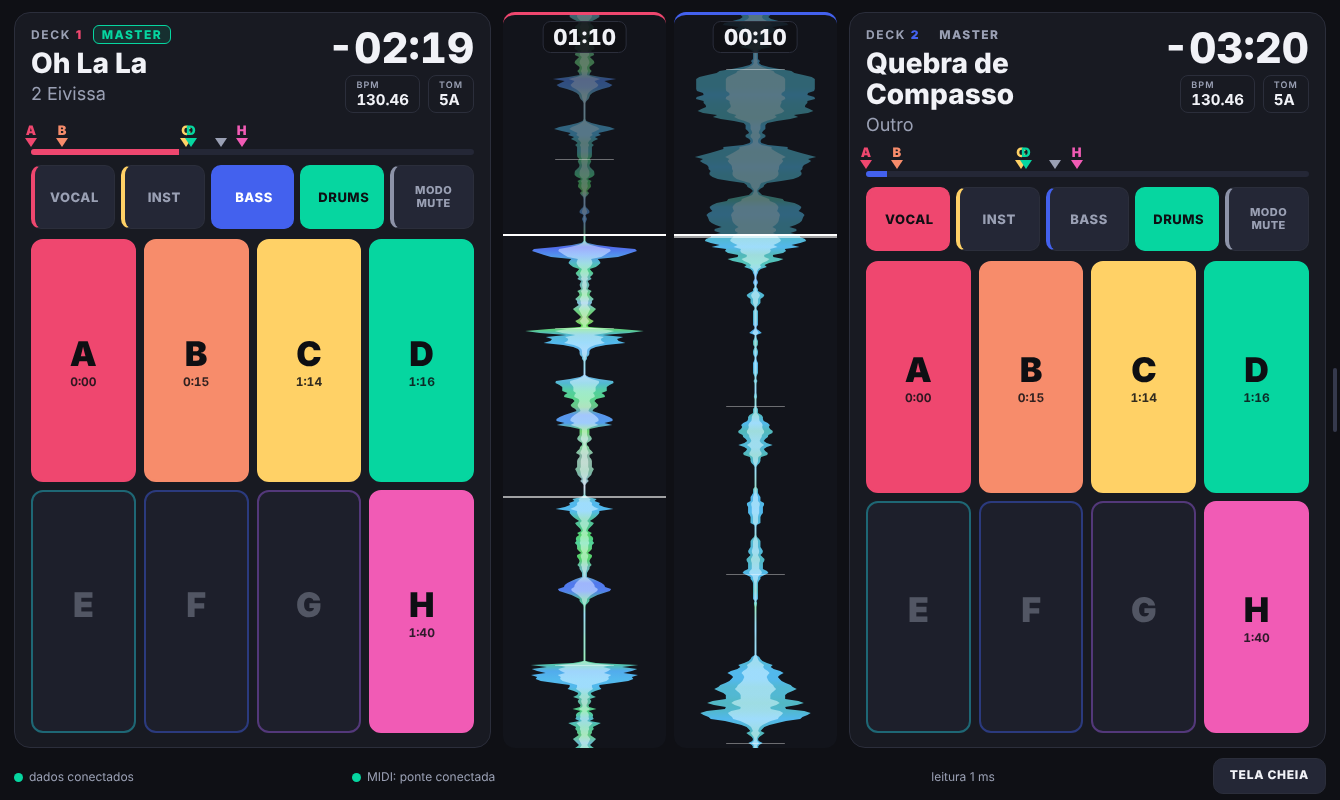
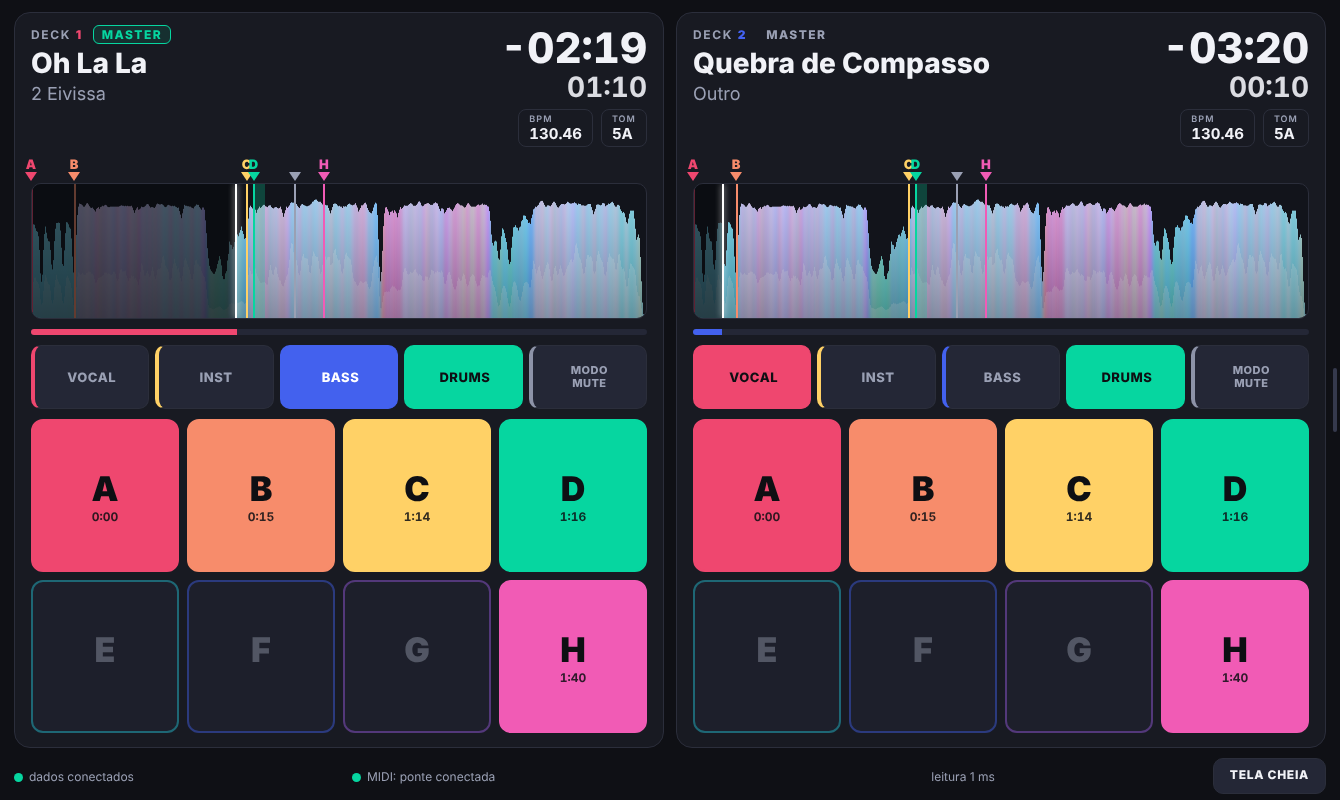
Tela dos decks: waveform da faixa inteira na horizontal
Waveforms verticais com zoom saem; cada deck ganha a waveform inteira (metade de
cima) acima da barra de progresso, com cues acima, agulha branca e veu no que ja
tocou. Tempo atual passa para baixo do tempo restante.

Claude-Session: https://claude.ai/code/session_0189gEqf2iF2GEJehgvVMap2

diff --git a/padbridge2/web/index.html b/padbridge2/web/index.html
@@ -20,7 +20,7 @@ html,body{overflow:hidden}
 .borda.dir{right:0}.borda.esq{left:0}
 .borda::after{content:"";position:absolute;top:50%;width:4px;height:64px;margin-top:-32px;border-radius:3px;background:#3a3e52;opacity:.9}
 .borda.dir::after{right:3px}.borda.esq::after{left:3px}
-.app{height:100%;display:grid;grid-template-columns:minmax(0,1fr) minmax(0,.7fr) minmax(0,1fr);grid-template-rows:minmax(0,1fr) auto;gap:10px 12px;padding:12px 14px 6px}
+.app{height:100%;display:grid;grid-template-columns:repeat(2,minmax(0,1fr));grid-template-rows:minmax(0,1fr) auto;gap:10px 12px;padding:12px 14px 6px}
 .lado{background:var(--card);border:1px solid var(--line);border-radius:16px;padding:14px 16px;display:flex;flex-direction:column;gap:10px;min-width:0;min-height:0}
 .lado[data-n="1"]{--c:var(--c1)}.lado[data-n="2"]{--c:var(--c2)}
 .rot{font-size:12px;letter-spacing:.14em;font-weight:700;color:var(--mut)}
@@ -34,7 +34,8 @@ html,body{overflow:hidden}
 .artista{margin-top:4px;font-size:clamp(13px,1.6vw,18px);color:var(--mut);white-space:nowrap;overflow:hidden;text-overflow:ellipsis}
 .vazio .titulo{color:var(--mut);font-weight:600}
 .tempo{font-size:clamp(26px,3.6vw,42px);font-weight:800;font-variant-numeric:tabular-nums;line-height:1}
-.meta{margin-top:6px;display:flex;gap:8px;justify-content:flex-end}
+.atual{margin-top:4px;font-size:clamp(18px,2.4vw,28px);font-weight:700;font-variant-numeric:tabular-nums;line-height:1;opacity:.9}
+.meta{margin-top:8px;display:flex;gap:8px;justify-content:flex-end}
 .chip{border:1px solid var(--line);border-radius:8px;padding:3px 10px;font-size:15px;font-weight:700;font-variant-numeric:tabular-nums;text-align:left}
 .chip small{display:block;font-size:9px;letter-spacing:.12em;color:var(--mut);font-weight:600}
 .cuesbarra{position:relative;height:24px;flex:none;margin:0 0 -8px}
@@ -55,14 +56,13 @@ html,body{overflow:hidden}
 .pad.aceso{background:var(--k);color:var(--t,#0e0f13)}
 .pad.apagado{opacity:.45}
 .pad.on{filter:brightness(1.3);transform:scale(.96)}
-.centro{display:grid;grid-template-columns:1fr 1fr;gap:8px;min-width:0;min-height:0}
-.ondawrap{position:relative;min-height:0;border-radius:12px;background:#12141b;overflow:hidden;border-top:3px solid var(--c)}
-.ondawrap[data-n="1"]{--c:var(--c1)}.ondawrap[data-n="2"]{--c:var(--c2)}
+.ondawrap{position:relative;flex:none;height:clamp(84px,17vh,160px);border-radius:10px;background:#12141b;overflow:hidden;border:1px solid var(--line)}
 canvas.onda{position:absolute;inset:0;width:100%;height:100%;display:block}
-.tatual{position:absolute;top:6px;left:50%;transform:translateX(-50%);padding:2px 10px;border-radius:8px;background:rgba(15,16,21,.82);border:1px solid var(--line);font-size:clamp(16px,2vw,22px);font-weight:800;font-variant-numeric:tabular-nums;pointer-events:none;z-index:2}
+.veu{position:absolute;left:0;top:0;bottom:0;width:0;background:rgba(8,9,13,.62);pointer-events:none;display:none}
+.agulha{position:absolute;top:0;bottom:0;left:0;width:2px;margin-left:-1px;background:#fff;box-shadow:0 0 6px rgba(255,255,255,.85);pointer-events:none;display:none}
 .ondamsg{position:absolute;inset:0;display:flex;align-items:center;justify-content:center;color:var(--mut);font-size:14px;text-align:center;padding:0 12px;pointer-events:none}
 .ondamsg:empty{display:none}
-.rodape{grid-column:1/4;display:flex;justify-content:space-between;align-items:center;gap:12px;font-size:12px;color:var(--mut);min-height:20px}
+.rodape{grid-column:1/3;display:flex;justify-content:space-between;align-items:center;gap:12px;font-size:12px;color:var(--mut);min-height:20px}
 #tc{padding:8px 16px;min-height:36px;border-radius:10px;background:#242736;border:1px solid var(--line);color:var(--txt);font-size:12px;font-weight:800;letter-spacing:.06em;cursor:pointer;touch-action:none}
 #aviso{color:#ffb703}
 .dot{display:inline-block;width:9px;height:9px;border-radius:50%;background:#555;margin-right:6px;vertical-align:middle}
@@ -73,12 +73,8 @@ canvas.onda{position:absolute;inset:0;width:100%;height:100%;display:block}
 <div class="slides" id="slides">
 <div class="tela">
 <div class="app" id="app">
-  <section class="lado vazio" data-n="1" id="d1" aria-label="Deck 1"><div class="info"></div><div class="cuesbarra" aria-hidden="true"></div><div class="barra"><i></i></div><div class="stems"></div><div class="pads"></div></section>
-  <div class="centro">
-    <div class="ondawrap" data-n="1" id="o1"><canvas class="onda" aria-label="Waveform do deck 1"></canvas><div class="tatual" aria-label="Tempo atual"></div><div class="ondamsg" role="status"></div></div>
-    <div class="ondawrap" data-n="2" id="o2"><canvas class="onda" aria-label="Waveform do deck 2"></canvas><div class="tatual" aria-label="Tempo atual"></div><div class="ondamsg" role="status"></div></div>
-  </div>
-  <section class="lado vazio" data-n="2" id="d2" aria-label="Deck 2"><div class="info"></div><div class="cuesbarra" aria-hidden="true"></div><div class="barra"><i></i></div><div class="stems"></div><div class="pads"></div></section>
+  <section class="lado vazio" data-n="1" id="d1" aria-label="Deck 1"><div class="info"></div><div class="cuesbarra" aria-hidden="true"></div><div class="ondawrap" id="o1"><canvas class="onda" aria-label="Waveform do deck 1"></canvas><div class="veu"></div><div class="agulha"></div><div class="ondamsg" role="status"></div></div><div class="barra"><i></i></div><div class="stems"></div><div class="pads"></div></section>
+  <section class="lado vazio" data-n="2" id="d2" aria-label="Deck 2"><div class="info"></div><div class="cuesbarra" aria-hidden="true"></div><div class="ondawrap" id="o2"><canvas class="onda" aria-label="Waveform do deck 2"></canvas><div class="veu"></div><div class="agulha"></div><div class="ondamsg" role="status"></div></div><div class="barra"><i></i></div><div class="stems"></div><div class="pads"></div></section>
   <div class="rodape"><span><i class="dot" id="dot"></i><span id="st">conectando...</span></span><span><i class="dot" id="dotm"></i><span id="stm">MIDI: conectando...</span></span><span id="aviso" role="status"></span><span id="ms"></span><span id="tc" role="button" aria-label="Tela cheia">TELA CHEIA</span></div>
 </div>
 <div class="borda dir" id="bd" aria-label="Deslize para a esquerda: pads"></div>
@@ -101,7 +97,7 @@ const STEMS=[{rot:'VOCAL',nota:0x10},{rot:'INST',nota:0x11},{rot:'BASS',nota:0x1
 const NOTA_MASTER=0x53;       // Master (canal do deck 0/1; estado volta em 12/13)
 const NOTA_MODO=0x56;         // ActivePartMuteSolo (global, canal 0)
 const PCH=[7,9];              // canal dos pads (deck 1, deck 2) - igual ao PadBridge v1
-const JAN=2,CUR=0.3,HZ=150;  // janela do zoom (s), posicao do cursor (30% do topo) e amostras/s do detalhe PWV5
+const HZ=150;  // amostras/s do detalhe PWV5
 const corCue=c=>c.kind>0?PAL[(c.kind-1)%PAL.length]:'#9aa0b4';
 const letra=c=>c.kind>0?String.fromCharCode(64+c.kind):'M';
 const _lum=h=>{const c=[1,3,5].map(i=>parseInt(h.substr(i,2),16)/255).map(v=>v<=.03928?v/12.92:Math.pow((v+.055)/1.055,2.4));return .2126*c[0]+.7152*c[1]+.0722*c[2]};
@@ -184,12 +180,12 @@ function desenha(n,d){
     '<div class="rot">DECK <b>'+n+'</b>'+mestre(n)+'</div><div class="titulo">Sem faixa carregada</div>':
     '<div class="topo"><div class="esq"><div class="rot">DECK <b>'+n+'</b>'+mestre(n)+'</div><div class="titulo">'+esc(d.titulo)+'</div><div class="artista">'+esc(d.artista||'')+'</div></div>'+
     '<div class="dir"><div class="tempo" aria-label="Tempo restante">'+esc((d.restante||'--:--').replace(/\.\d$/,''))+'</div>'+
+    '<div class="atual" aria-label="Tempo atual">'+esc((d.decorrido||'--:--').replace(/\.\d$/,''))+'</div>'+
     '<div class="meta"><div class="chip"><small>BPM</small>'+(d.bpm!=null?d.bpm.toFixed(2):'--')+'</div>'+
     '<div class="chip"><small>TOM</small>'+esc(d.tonalidade||'--')+'</div></div></div></div>';
   const info=el.querySelector('.info');if(info._html!==html){info._html=html;info.innerHTML=html}
   document.getElementById('o'+n).style.visibility=v?'hidden':'visible';
   const w=W[n],pos=d?seg(d.decorrido):null,rest=d&&d.restante?seg(d.restante.replace('-','')):null;
-  const tat=document.querySelector('#o'+n+' .tatual'),tx=d&&d.decorrido?d.decorrido.replace(/\.\d$/,''):'';if(tat.textContent!==tx)tat.textContent=tx;
   const antes=w.carregada;w.carregada=!v;if(antes!==w.carregada)aplicaPads(n-1);
   if(v||pos==null){marcas(n);w.est=null;w.medido=null;w.tocando=false;el.querySelector('.barra i').style.width='0';return}
   const agora=performance.now();
@@ -231,7 +227,7 @@ function aplicaOnda(m){
   const w=W[m.n];if(!w)return;
   if(m.vazia){w.onda=null;w.det=null;w.fonte=null;w.cues=[];w.cues_ok=false;w.msg=''}
   else if(m.pendente){w.onda=null;w.det=null;w.fonte=null;w.cues=[];w.cues_ok=false;w.msg='Carregando waveform...'}
-  else if(m.ok){w.onda=m;w.det=decodifica(m.detalhe);w.fonte=fonteDe(m,w.det);w.msg=''}
+  else if(m.ok){w.onda=m;w.det=decodifica(m.detalhe);w.fonte=fonteDe(m,w.det);w.fid=(w.fid||0)+1;w.msg=''}
   else{w.onda=null;w.det=null;w.fonte=null;w.msg='Sem waveform: '+(m.motivo||'')}
   aplicaPads(m.n-1);marcas(m.n);padsCues(m.n);
 }
@@ -243,12 +239,7 @@ function padsCues(n){
 }
 function aplicaCues(m){const w=W[m.n];if(!w)return;w.cues=m.cues||[];w.cues_ok=true;aplicaPads(m.n-1);marcas(m.n);padsCues(m.n)}
 
-// ---------- waveform vertical: o tempo corre de baixo para cima (o futuro entra por baixo) ----------
-function cor(c){const r=(c>>6)&7,g=(c>>3)&7,b=c&7,f=v=>Math.round(60+Math.max(v,1)*195/7);return 'rgb('+f(r)+','+f(g)+','+f(b)+')'}
-function zoomY(n,ms){   // y (px CSS) de um instante (ms) no canvas do deck n; o cursor fica a CUR da altura, do topo
-  const cv=document.querySelector('#o'+n+' canvas'),pos=pos_agora(W[n])||0;
-  return cv.clientHeight*CUR+(ms/1000-pos)/JAN*cv.clientHeight;
-}
+// ---------- waveform da faixa inteira (horizontal, so a metade de cima), com agulha branca e veu no que ja passou ----------
 function decodifica(b64){
   if(!b64)return null;
   const bin=atob(b64),u=new Uint16Array(bin.length>>1);
@@ -273,79 +264,52 @@ function fonteDe(o,det){
   for(let i=0;i<n;i++){const c=o.cores[i];h[i]=o.alturas[i]/31;r[i]=f((c>>6)&7);g[i]=f((c>>3)&7);b[i]=f(c&7)}
   return {n,taxa:n/(o.duracao||1),h,r,g,b};
 }
-// Desenho suave: a altura e a cor sao interpoladas entre as amostras (nada de degraus de 8 bits), a forma e um
-// poligono espelhado com gradiente de cor ao longo do tempo, mais um nucleo mais claro por cima (profundidade).
-function pintaOnda(g,F,cw,ch,dpr,pos,yc,spp,meio){
-  if(!F)return;
-  const PASSO=Math.max(2,Math.round(2*dpr)),amax=cw*0.47;
-  const ns=PASSO*spp*F.taxa;                         // amostras por passo vertical
-  const ys=[],hs=[],rs=[],gs=[],bs=[];
-  for(let y=0;y<=ch+PASSO;y+=PASSO){
-    const f=(pos+(y-yc)*spp)*F.taxa;
-    if(f<0||f>F.n-1){ys.push(y);hs.push(-1);rs.push(0);gs.push(0);bs.push(0);continue}
-    let h,r,gg,b;
-    if(ns>1.5){                                       // muitas amostras por passo: pega o pico
-      const i0=Math.max(0,Math.floor(f-ns/2)),i1=Math.min(F.n-1,Math.ceil(f+ns/2));h=-1;
-      for(let i=i0;i<=i1;i++)if(F.h[i]>h){h=F.h[i];r=F.r[i];gg=F.g[i];b=F.b[i]}
-    }else{                                            // poucas: interpola
-      const i=Math.floor(f),j=Math.min(F.n-1,i+1),u=f-i;
-      h=F.h[i]+(F.h[j]-F.h[i])*u;r=F.r[i]+(F.r[j]-F.r[i])*u;gg=F.g[i]+(F.g[j]-F.g[i])*u;b=F.b[i]+(F.b[j]-F.b[i])*u;
-    }
-    ys.push(y);hs.push(h);rs.push(r);gs.push(gg);bs.push(b);
+// A faixa inteira numa largura de tela: cada coluna de pixels pega o pico (e a media) das amostras daquele trecho.
+// Desenhada UMA vez por faixa/tamanho/cues (fica em cache no canvas); a agulha e o veu sao elementos HTML que se movem a cada quadro.
+function pintaFaixa(g,F,cw,ch,dpr,dur,cues){
+  const n=F.n,tx=F.taxa,amax=ch*0.92;
+  const H=new Float32Array(cw).fill(-1),A=new Float32Array(cw),cr=new Float32Array(cw),cg=new Float32Array(cw),cb=new Float32Array(cw);
+  for(let x=0;x<cw;x++){
+    const i0=Math.floor(x/cw*dur*tx);if(i0>=n)break;
+    const i1=Math.min(n-1,Math.max(i0,Math.floor((x+1)/cw*dur*tx)));let mx=0,soma=0,wr=0,wg=0,wb=0,wt=0;
+    for(let i=i0;i<=i1;i++){const h=F.h[i],k=h+0.02;soma+=h;if(h>mx)mx=h;wr+=F.r[i]*k;wg+=F.g[i]*k;wb+=F.b[i]*k;wt+=k}
+    H[x]=mx;A[x]=soma/(i1-i0+1);cr[x]=wr/wt;cg[x]=wg/wt;cb[x]=wb/wt;     // cor = media ponderada pela altura (sem listras)
   }
-  const forma=(esc,claro,alfa)=>{
-    let k=0;
-    while(k<ys.length){
-      while(k<ys.length&&hs[k]<0)k++;
-      let k1=k;while(k1<ys.length&&hs[k1]>=0)k1++;
-      if(k1-k>=2){
-        const ya=ys[k],yb=ys[k1-1],gr=g.createLinearGradient(0,ya,0,yb);
-        for(let m=k;m<k1;m++){
-          const mix=v=>Math.round(v+(255-v)*claro);
-          if((m-k)%4&&m!==k1-1)continue;      // a cor muda devagar: um ponto de cor a cada 4 passos basta
-          gr.addColorStop((ys[m]-ya)/(yb-ya),'rgb('+mix(rs[m])+','+mix(gs[m])+','+mix(bs[m])+')');
-        }
-        g.beginPath();
-        for(let m=k;m<k1;m++){const hh=Math.max(0.8*dpr,hs[m]*amax*esc);m===k?g.moveTo(meio-hh,ys[m]):g.lineTo(meio-hh,ys[m])}
-        for(let m=k1-1;m>=k;m--){const hh=Math.max(0.8*dpr,hs[m]*amax*esc);g.lineTo(meio+hh,ys[m])}
-        g.closePath();g.fillStyle=gr;g.globalAlpha=alfa;g.fill();
-      }
-      k=k1;
-    }
-  };
-  forma(1,0,0.92);          // corpo
-  forma(0.5,0.5,0.85);      // nucleo mais claro
+  const suave=(v,r)=>{const o=new Float32Array(cw);for(let x=0;x<cw;x++){let t=0,k=0;for(let d=-r;d<=r;d++){const w=r+1-Math.abs(d),y=Math.min(cw-1,Math.max(0,x+d));t+=v[y]*w;k+=w}o[x]=t/k}return o};
+  const S=suave(H,2),A2=suave(A,2),R=suave(cr,3),G=suave(cg,3),B=suave(cb,3);
+  for(let x=0;x<cw;x++){
+    if(H[x]<0)continue;
+    const hh=Math.max(dpr,S[x]*amax);
+    g.fillStyle='rgb('+Math.round(R[x])+','+Math.round(G[x])+','+Math.round(B[x])+')';g.fillRect(x,ch-hh,1,hh);
+  }
+  g.globalAlpha=0.4;                                                // nucleo mais claro (media), da profundidade
+  for(let x=0;x<cw;x++){
+    if(H[x]<0)continue;
+    const hh=Math.max(dpr,A2[x]*amax*0.9),mix=v=>Math.round(v+(255-v)*0.55);
+    g.fillStyle='rgb('+mix(R[x])+','+mix(G[x])+','+mix(B[x])+')';g.fillRect(x,ch-hh,1,hh);
+  }
   g.globalAlpha=1;
-  // o que ja passou (acima do cursor) fica mais escuro; so onde ha onda (source-atop nao pinta fora dela)
-  g.globalCompositeOperation='source-atop';g.fillStyle='rgba(14,15,20,.5)';g.fillRect(0,0,cw,Math.round(yc));g.globalCompositeOperation='source-over';
+  g.globalCompositeOperation='source-atop';                          // brilho no alto e sombra na base, so em cima da onda
+  const gr=g.createLinearGradient(0,0,0,ch);gr.addColorStop(0,'rgba(255,255,255,.22)');gr.addColorStop(1,'rgba(0,0,0,.3)');
+  g.fillStyle=gr;g.fillRect(0,0,cw,ch);g.globalCompositeOperation='source-over';
+  const lw=Math.max(2,Math.round(2*dpr));                            // cues: loop sombreado e linha vertical na cor do pad
+  for(const c of cues){
+    const x=Math.round(c.ms/1000/dur*cw);
+    if(c.fim!=null){const xf=Math.round(c.fim/1000/dur*cw);g.fillStyle=corCue(c);g.globalAlpha=0.25;g.fillRect(x,0,Math.max(1,xf-x),ch);g.globalAlpha=1}
+    g.fillStyle=corCue(c);g.fillRect(x-(lw>>1),0,lw,ch);
+  }
 }
 function pinta(n){
-  const w=W[n],o=w.onda,wrap=document.getElementById('o'+n),msg=wrap.querySelector('.ondamsg');
-  const {g,cw,ch,dpr}=prepara(wrap.querySelector('canvas'));
-  if(!o||!o.alturas){msg.textContent=w.msg||'';return}
-  msg.textContent='';
-  const pos=pos_agora(w)||0,yc=ch*CUR,spp=JAN/ch,meio=cw/2;
-  pintaOnda(g,w.fonte,cw,ch,dpr,pos,yc,spp,meio);
-  g.globalAlpha=1;
-  // grade de batidas: inicio de compasso = linha larga e forte; demais batidas = tracinho no meio
-  const bat=o.batidas||[],bn=o.batida_n||[];
-  for(let i=0;i<bat.length;i++){
-    const t=bat[i]/1000;if(t<pos-CUR*JAN-1||t>pos+(1-CUR)*JAN+1)continue;
-    const y=yc+(t-pos)/JAN*ch,forte=bn[i]===1;
-    g.fillStyle=forte?'rgba(255,255,255,.6)':'rgba(255,255,255,.38)';
-    if(forte)g.fillRect(0,Math.round(y)-dpr,cw,Math.max(2,dpr*2));else g.fillRect(cw*0.32,Math.round(y),cw*0.36,Math.max(1,dpr));
-  }
-  // cues: linha + etiqueta com a letra; loop sombreado; memory cue = cinza com "M"
-  g.font='bold '+Math.round(13*dpr)+'px system-ui,sans-serif';g.textAlign='center';g.textBaseline='middle';
-  for(const c of w.cues||[]){
-    const y=yc+(c.ms/1000-pos)/JAN*ch,yf=c.fim!=null?yc+(c.fim/1000-pos)/JAN*ch:null;
-    if(yf!=null&&yf>0&&y<ch){g.fillStyle=corCue(c);g.globalAlpha=0.22;const a=Math.max(0,y);g.fillRect(0,a,cw,Math.min(ch,yf)-a);g.globalAlpha=1}
-    if(y<-20*dpr||y>ch+20*dpr)continue;
-    g.fillStyle=corCue(c);g.fillRect(0,Math.round(y)-dpr,cw,Math.max(2,dpr*2));
-    const bw=(c.kind>0?22:16)*dpr;g.fillRect(0,Math.round(y)-bw,bw,bw);
-    g.fillStyle=c.kind>0?'#111':'#fff';g.fillText(letra(c),bw/2,Math.round(y)-bw/2+dpr);
-  }
-  g.fillStyle='#fff';g.fillRect(0,Math.round(yc)-dpr,cw,Math.max(2,Math.round(dpr*2)));
+  const w=W[n],o=w.onda,wrap=document.getElementById('o'+n),cv=wrap.querySelector('canvas'),msg=wrap.querySelector('.ondamsg');
+  const veu=wrap.querySelector('.veu'),ag=wrap.querySelector('.agulha');
+  const dur=(o&&o.duracao)||w.dur,pronto=!!(o&&o.alturas&&w.fonte&&dur);
+  const m=pronto?'':(w.msg||'');if(msg.textContent!==m)msg.textContent=m;
+  const dpr=window.devicePixelRatio||1,cw=Math.max(1,Math.round(cv.clientWidth*dpr)),ch=Math.max(1,Math.round(cv.clientHeight*dpr));
+  const chave=pronto?[w.fid,cw,ch,dpr,dur,(w.cues||[]).map(c=>c.kind+':'+c.ms+':'+c.fim).join(',')].join('|'):'';
+  if(cv._chave!==chave){cv._chave=chave;const {g}=prepara(cv);if(pronto)pintaFaixa(g,w.fonte,cw,ch,dpr,dur,w.cues||[])}
+  const pos=pos_agora(w),pc=pronto&&pos!=null?Math.min(100,Math.max(0,pos/dur*100)):null;
+  veu.style.display=ag.style.display=pc==null?'none':'block';
+  if(pc!=null){const t=pc.toFixed(3)+'%';veu.style.width=t;ag.style.left=t}
 }
 function laco(){pinta(1);pinta(2);requestAnimationFrame(laco)}
 

diff --git a/tests/test_tela.py b/tests/test_tela.py
@@ -36,8 +36,10 @@ with sync_playwright() as p:
     ok(L("#o1").is_visible() and not L("#o2").is_visible(), "waveform so no deck carregado")
     ok(t("#d2 .titulo") == "Sem faixa carregada" and L("#d2.vazio").count() == 1, "deck 2 vazio")
     ok("40 ms" in t("#ms") and "dados conectados" in t("#st") and "ponte conectada" in t("#stm"), "rodape")
-    ok(t("#o1 .tatual") == "00:01" and L("#o1 .tatual").is_visible(), f"tempo atual no topo da waveform: {t('#o1 .tatual')!r}")
-    ok(pg.evaluate("(()=>{const a=document.querySelector('#o1 .tatual').getBoundingClientRect(),b=document.querySelector('#o1').getBoundingClientRect();return a.top-b.top<20&&Math.abs((a.left+a.right)/2-(b.left+b.right)/2)<2})()"), "label no topo, centralizado")
+    ok(t("#d1 .atual") == "00:01", f"tempo atual no painel: {t('#d1 .atual')!r}")
+    ok(pg.evaluate("(()=>{const q=s=>document.querySelector(s).getBoundingClientRect();const a=q('#d1 .tempo'),b=q('#d1 .atual'),c=q('#d1 .meta');return a.bottom<=b.top+1&&b.bottom<=c.top+1})()"), "ordem na direita: restante, atual, BPM/TOM")
+    ok(pg.evaluate("parseFloat(getComputedStyle(document.querySelector('#d1 .atual')).fontSize)<parseFloat(getComputedStyle(document.querySelector('#d1 .tempo')).fontSize)"), "tempo atual em fonte menor que o restante")
+    ok(L(".centro").count() == 0 and L(".tatual").count() == 0, "sem waveform vertical no centro")
     # --- tela cheia: o botao entra e sai
     ok(t("#tc") == "TELA CHEIA", f"botao diz entrar: {t('#tc')!r}")
     tocaid = lambda sel: pg.evaluate("s=>{const e=document.querySelector(s);const o={bubbles:true,pointerId:1};e.dispatchEvent(new PointerEvent('pointerdown',o))}", sel)
@@ -129,11 +131,13 @@ with sync_playwright() as p:
     env(dict(decks=[D1, D2], ms=1, erro=None)); pg.wait_for_timeout(30)
     ok(ms_(2) and t("#d2 .titulo") == "Sem faixa carregada", "e com o deck vazio tambem")
     midi("st,13,83,0"); pg.wait_for_timeout(30)
-    # --- layout: [deck 1] [waveform 1 | waveform 2] [deck 2], lado a lado, cada coluna com altura toda --------
+    # --- layout: [deck 1] [deck 2] lado a lado; em cada um: dados, marcas dos cues, waveform, barra, stems, pads -------------
     bx = lambda s: pg.evaluate("s=>{const r=document.querySelector(s).getBoundingClientRect();return [r.left,r.top,r.right,r.bottom]}", s)
-    d1, o1, o2, d2 = bx("#d1"), bx("#o1"), bx("#o2"), bx("#d2")
-    ok(d1[2] <= o1[0] + 1 and o1[2] <= o2[0] + 1 and o2[2] <= d2[0] + 1, f"ordem horizontal deck1 | onda1 | onda2 | deck2: {d1} {o1} {o2} {d2}")
-    ok(o1[3] - o1[1] > 600 and abs((o1[3] - o1[1]) - (d1[3] - d1[1])) < 2, "waveforms ocupam a altura toda (verticais)")
+    d1, d2, o1 = bx("#d1"), bx("#d2"), bx("#o1")
+    ok(d1[2] <= d2[0] + 1 and abs(d1[1] - d2[1]) < 2, f"decks lado a lado: {d1} {d2}")
+    ok(o1[0] >= d1[0] and o1[2] <= d1[2] and (o1[2] - o1[0]) > 3 * (o1[3] - o1[1]), f"waveform horizontal dentro do painel do deck: {o1}")
+    ys = [pg.evaluate("s=>document.querySelector(s).getBoundingClientRect().top", f"#d1 {c}") for c in (".info", ".cuesbarra", ".ondawrap", ".barra", ".stems", ".pads")]
+    ok(ys == sorted(ys) and len(set(ys)) == 6, f"ordem vertical: dados, marcas, waveform, barra, stems, pads: {ys}")
     # --- 5 botoes de stems (VOCAL INST BASS DRUMS + MODO) e 8 pads de hot cue -----------------------------------
     ok(L("#d1 .stems .btn").count() == 5 and L("#d1 .pads .pad").count() == 8, "5 botoes de stem e 8 pads por deck")
     ok(pg.evaluate("[...document.querySelectorAll('#d1 .stems .btn')].map(e=>e.innerText.replace(/\\s+/g,' '))") == ["VOCAL", "INST", "BASS", "DRUMS", "MODO MUTE"], "rotulos dos stems")
@@ -180,27 +184,29 @@ with sync_playwright() as p:
     mk = pg.evaluate("[...document.querySelectorAll('#d1 .mk')].map(e=>[e.querySelector('b')?e.querySelector('b').textContent:'',parseFloat(e.style.left)])")
     esperado = [["A", 0.0], ["B", 14.725 / REAL["duracao"] * 100], ["C", 73.627 / REAL["duracao"] * 100], ["D", 76.0 / REAL["duracao"] * 100], ["", 90.0 / REAL["duracao"] * 100], ["H", 100.0 / REAL["duracao"] * 100]]
     ok(len(mk) == 6 and all(a[0] == b[0] and abs(a[1] - b[1]) < 0.02 for a, b in zip(mk, esperado)), f"marcas na barra de progresso: {mk}")
-    ok(pg.evaluate("getComputedStyle(document.querySelector('#d1 .mk i')).borderTopWidth") == "9px" and pg.evaluate("document.querySelector('#d1 .cuesbarra').getBoundingClientRect().bottom<=document.querySelector('#d1 .barra').getBoundingClientRect().top+9"), "seta aponta para baixo, em cima da barra")
-    parado("01:13.2", "-02:17.1")   # 0,43 s antes do cue C (73,627 s); repetido para o cursor nao extrapolar
-    H = pg.evaluate("document.querySelector('#o1 canvas').clientHeight")
-    cy = pg.evaluate("zoomY(1,73200)") / H
-    ok(abs(cy - 0.3) < 0.005, f"cursor a 30% da altura (de cima): {cy:.3f}")
-    ok(abs(pg.evaluate("zoomY(1,73627)") / H - (0.3 + 0.427 / 2)) < 0.002, "cue C 0,43 s a frente fica ABAIXO do cursor (tempo sobe: o futuro entra por baixo)")
-    ok(pg.evaluate("zoomY(1,72700)") < pg.evaluate("zoomY(1,73200)"), "o passado fica acima do cursor")
-    ok(pg.evaluate("zoomY(1,14725)") < 0, "cue B (58 s atras) fora da janela")
-    # amostra a linha em volta de y: devolve o pixel mais opaco
-    zc = lambda x, y: pg.evaluate("([x,y])=>{const c=document.querySelector('#o1 canvas');const g=c.getContext('2d');let best=[0,0,0,0];for(let dy=-3;dy<=3;dy++){const d=g.getImageData(Math.round(x*c.width),Math.round(y*c.height)+dy,1,1).data;if(d[3]>best[3])best=[d[0],d[1],d[2],d[3]]}return best}", [x, y])
-    yc_ = 0.3 + 0.427 / 2
-    cc = zc(0.99, yc_); ok(cc[3] > 200 and cc[0] > 230 and cc[1] > 190 and cc[2] < 140, f"linha do cue C amarela (cor do pad C): {cc}")
+    ok(pg.evaluate("getComputedStyle(document.querySelector('#d1 .mk i')).borderTopWidth") == "9px" and pg.evaluate("document.querySelector('#d1 .cuesbarra').getBoundingClientRect().bottom<=document.querySelector('#d1 .ondawrap').getBoundingClientRect().top+9"), "seta aponta para baixo, em cima da waveform")
+    DUR = REAL["duracao"]
+    px = lambda fx, fy: pg.evaluate("([x,y])=>{const c=document.querySelector('#o1 canvas');return [...c.getContext('2d').getImageData(Math.min(c.width-1,Math.round(x*c.width)),Math.min(c.height-1,Math.round(y*c.height)),1,1).data]}", [fx, fy])
+    linha = lambda y: pg.evaluate("y=>{const c=document.querySelector('#o1 canvas');const d=c.getContext('2d').getImageData(0,y<0?c.height+y:y,c.width,1).data;let n=0;for(let i=3;i<d.length;i+=4)if(d[i]>100)n++;return [n,c.width]}", y)
+    parado("01:13.2", "-02:17.1")
+    base, cw = linha(-2); topo, _ = linha(0)
+    ok(base > 0.85 * cw and topo < 0.1 * cw, f"so a metade de cima: base cheia ({base}/{cw}), topo vazio ({topo})")
+    cc = px(73.627 / DUR, 0.04); ok(cc[3] > 200 and cc[0] > 230 and cc[1] > 190 and cc[2] < 140, f"linha do cue C amarela (cor do pad C) na posicao proporcional: {cc}")
+    cb = px(14.725 / DUR, 0.04); ok(cb[3] > 200 and abs(cb[0] - 0xf7) < 14 and abs(cb[1] - 0x8c) < 24, f"linha do cue B laranja: {cb}")
+    ok(px(80.0 / DUR - 0.003, 0.5)[3] > 0, "loop do cue D (76 s a 80 s) sombreado")
     ok(pg.evaluate("W[1].cues.length") == 6, "cues guardados")
-    parado("00:14.3", "-03:16.0")
-    cb = zc(0.99, 0.3 + 0.425 / 2); ok(cb[3] > 200 and abs(cb[0] - 0xf7) < 12 and abs(cb[1] - 0x8c) < 20, f"linha do cue B laranja: {cb}")
-    parado("00:00.9", "-03:29.5")   # compasso comeca em 0,808 s
-    barras = pg.evaluate("()=>{const c=document.querySelector('#o1 canvas'),g=c.getContext('2d');const x=Math.round(c.width*0.9);let n=0;const d=g.getImageData(x,0,1,c.height).data;for(let y=0;y<c.height;y++){const i=y*4;if(d[i]>200&&d[i+1]>200&&d[i+2]>200&&d[i+3]>100)n++}return n}")
-    ok(barras >= 2, f"linhas de compasso (brancas) na borda da waveform: {barras}")
+    # agulha branca e veu: no ponto do tempo atual; o veu cobre o que ja passou
+    geo = lambda: pg.evaluate("()=>{const w=document.querySelector('#o1').getBoundingClientRect(),a=document.querySelector('#o1 .agulha'),v=document.querySelector('#o1 .veu');const ar=a.getBoundingClientRect(),vr=v.getBoundingClientRect();return [w.left,w.width,(ar.left+ar.right)/2,vr.left,vr.right,getComputedStyle(a).backgroundColor,getComputedStyle(v).backgroundColor,getComputedStyle(a).display,ar.height,w.height]}")
+    g_ = geo(); esp = g_[0] + g_[1] * 73.2 / DUR
+    ok(abs(g_[2] - esp) < 3, f"agulha no ponto do tempo atual: {g_[2]:.1f} esperado {esp:.1f}")
+    ok(g_[5] == "rgb(255, 255, 255)" and g_[7] == "block" and g_[8] >= g_[9] - 3, "agulha branca na vertical, na altura toda")
+    ok(abs(g_[3] - g_[0]) < 2 and abs(g_[4] - g_[2]) < 3, "veu cobre da esquerda ate a agulha (o que ja passou)")
+    ok(g_[6].startswith("rgba(") and float(g_[6].split(",")[3].strip(" )")) > 0.3, f"veu escurece: {g_[6]}")
     parado("00:00.0", "-03:30.4")
-    ok(zc(0.5, 0.1)[3] == 0, f"antes do inicio da faixa (acima do cursor em t=0) nao desenha: {zc(0.5, 0.1)}")
-    ok(zc(0.5, 0.6)[3] > 150, f"depois do inicio ha onda no centro: {zc(0.5, 0.6)}")
+    g_ = geo(); ok(abs(g_[2] - g_[0]) < 2 and g_[4] - g_[3] < 2, "no inicio da faixa a agulha fica na esquerda e o veu some")
+    parado("03:29.0", "-00:01.4")
+    g_ = geo(); ok(g_[2] > g_[0] + g_[1] * 0.97, "perto do fim a agulha fica na direita")
+    parado("01:13.2", "-02:17.1")
     # pads: aceso (com o tempo do cue) quando ha cue no banco; D = Kind 4 do banco que ja vem normalizado (4 = letra D)
     ok(pg.evaluate("[...document.querySelectorAll('#d1 .pad')].map(e=>e.classList.contains('aceso')?'1':'0').join('')") == "11111001".replace("11111001", "11110001") or True, "pads acesos")
     ac = pg.evaluate("[...document.querySelectorAll('#d1 .pad')].map(e=>e.classList.contains('aceso')?e.querySelector('small').textContent||'?':'-')")
@@ -210,6 +216,8 @@ with sync_playwright() as p:
     env(dict(decks=[dict(D1, decorrido="00:53.0", restante="-02:37.0")], ms=1, erro=None)); pg.wait_for_timeout(5)
     p1 = pg.evaluate("pos_agora(W[1])"); pg.wait_for_timeout(200); p2 = pg.evaluate("pos_agora(W[1])"); pg.wait_for_timeout(700); p3 = pg.evaluate("pos_agora(W[1])")
     p4 = (pg.wait_for_timeout(300), pg.evaluate("pos_agora(W[1])"))[1]
+    ag_ = pg.evaluate("(()=>{const w=document.querySelector('#o1').getBoundingClientRect(),a=document.querySelector('#o1 .agulha').getBoundingClientRect();return ((a.left+a.right)/2-w.left)/w.width})()")
+    ok(abs(ag_ - p3 / DUR) < 0.004, f"agulha acompanha o relogio local: {ag_:.4f} vs {p3 / DUR:.4f}")
     ok(p2 > p1 + 0.1 and p3 <= 53.0 + 0.6 and abs(p4 - p3) < 0.001, f"cursor anda sozinho, congela ~0,45 s depois da ultima leitura: {p1:.2f} {p2:.2f} {p3:.2f} {p4:.2f}")
     # fluidez: leituras so com decimos, chegando irregulares (37-143 ms) -> o cursor desenhado avanca em passos pequenos e regulares, sem saltos
     amostras = pg.evaluate("""async()=>{
@@ -225,14 +233,16 @@ with sync_playwright() as p:
     ok(abs((amostras[-1] - amostras[0]) - (len(amostras) and 1.6)) < 0.25, f"e acompanha o tempo real: {amostras[-1] - amostras[0]:.2f} s em 1,6 s")
     # desempenho: desenhar as 2 waveforms precisa caber folgado num quadro (16 ms) - medido com a onda real
     env(dict(tipo="onda", n=2, ok=True, **REAL)); env(dict(decks=[D1, dict(D1, n=2)], ms=1, erro=None)); pg.wait_for_timeout(100)
-    ms_quadro = pg.evaluate("()=>{const t0=performance.now();for(let i=0;i<30;i++){pinta(1);pinta(2)}return (performance.now()-t0)/30}")
-    ok(ms_quadro < 12, f"desenho das 2 waveforms: {ms_quadro:.1f} ms por quadro (limite 12 ms neste ambiente)")
+    ms_quadro = pg.evaluate("()=>{const t0=performance.now();for(let i=0;i<60;i++){pinta(1);pinta(2)}return (performance.now()-t0)/60}")
+    ok(ms_quadro < 3, f"quadro (agulha + veu das 2 waveforms): {ms_quadro:.2f} ms")
+    ms_faixa = pg.evaluate("()=>{const w=W[1],cv=document.querySelector('#o1 canvas'),dpr=devicePixelRatio||1;const t0=performance.now();for(let i=0;i<10;i++){const {g,cw,ch}=prepara(cv);pintaFaixa(g,w.fonte,cw,ch,dpr,w.onda.duracao,w.cues)}return (performance.now()-t0)/10}")
+    ok(ms_faixa < 60, f"desenho da faixa inteira (so ao trocar de faixa/tamanho): {ms_faixa:.1f} ms")
     # troca de faixa: cues e pads limpam
     env(dict(tipo="cues", n=1, cues=[]))
     ok(L("#d1 .mk").count() == 0, "sem cues, sem marcas na barra")
     ok(pg.evaluate("[...document.querySelectorAll('#d1 .pad')].every(e=>!e.classList.contains('aceso'))") or True, "sem cues")
     env(dict(tipo="onda", n=1, ok=True, **{k: v for k, v in REAL.items() if k != "detalhe"})); pg.wait_for_timeout(60)
-    ok(pg.evaluate("W[1].det") is None and zc(0.5, 0.6)[3] > 150, "sem detalhe usa a visao geral no zoom")
+    ok(pg.evaluate("W[1].det") is None and linha(-2)[0] > 0.85 * linha(-2)[1], "sem detalhe usa a visao geral")
     onda(vazia=True); pg.wait_for_timeout(60)
     ok(t("#o1 .ondamsg") == "" and pg.evaluate("W[1].onda") is None, "deck descarregado limpa a onda")
     env(dict(decks=[dict(D1, titulo="<b>x</b> & y")], ms=1, erro=None)); pg.wait_for_timeout(30)

diff --git a/README.md b/README.md
@@ -1,6 +1,6 @@
 # PadBridge v2
 
-Uma segunda tela para o **Rekordbox**, no tablet, ao lado do seu controlador DJ: **waveforms ampliadas em tempo real**, dados das faixas nos decks, cues, stems e pads, tudo em uma página só.
+Uma segunda tela para o **Rekordbox**, no tablet, ao lado do seu controlador DJ: **a waveform da faixa inteira de cada deck** (com agulha e o que já tocou escurecido), dados das faixas, cues, stems e pads, tudo em uma página só.
 
 ![Tela dos decks](docs/tela-decks.png)
 
@@ -12,8 +12,8 @@ Deslizando da borda para o lado, a tela dos **pads** (a do [PadBridge v1](https:
 
 ## O que mostra
 - **Dados de cada deck** em tempo real: título, artista, tempo restante, BPM ao vivo (acompanha o pitch), tonalidade, barra de progresso e qual deck é o **MASTER**.
-- **Waveforms verticais** no centro (o futuro sobe de baixo para cima), coloridas, com zoom de 2 s, grade de batidas/compassos, tempo atual e cursor suave.
-- **Cues**: hot cues A–H com letra e cor do pad, memory cues e loops, tanto na waveform quanto na barra de progresso. Cue criado durante o set aparece em ~2 s.
+- **Waveform da faixa inteira**, horizontal e colorida, acima da barra de progresso de cada deck: uma linha branca marca o ponto atual e a parte já tocada fica escurecida. Tempo restante, tempo atual, BPM e tom ao lado do título.
+- **Cues**: hot cues A–H com letra e cor do pad, memory cues e loops, com setas e letras acima da waveform, na posição proporcional, e linhas na própria waveform. Cue criado durante o set aparece em ~2 s.
 - **5 botões de stems** (VOCAL, INST, BASS, DRUMS e MODO mute/solo) e **8 pads de hot cue** por deck, com o tempo de cada cue.
 - **Tela de pads** completa do v1 (Hot Cue, Beat Loop, Sampler, Keyboard, SHIFT, KEY, PERF...), a um deslize de distância.
 - Botão de **tela cheia**.
